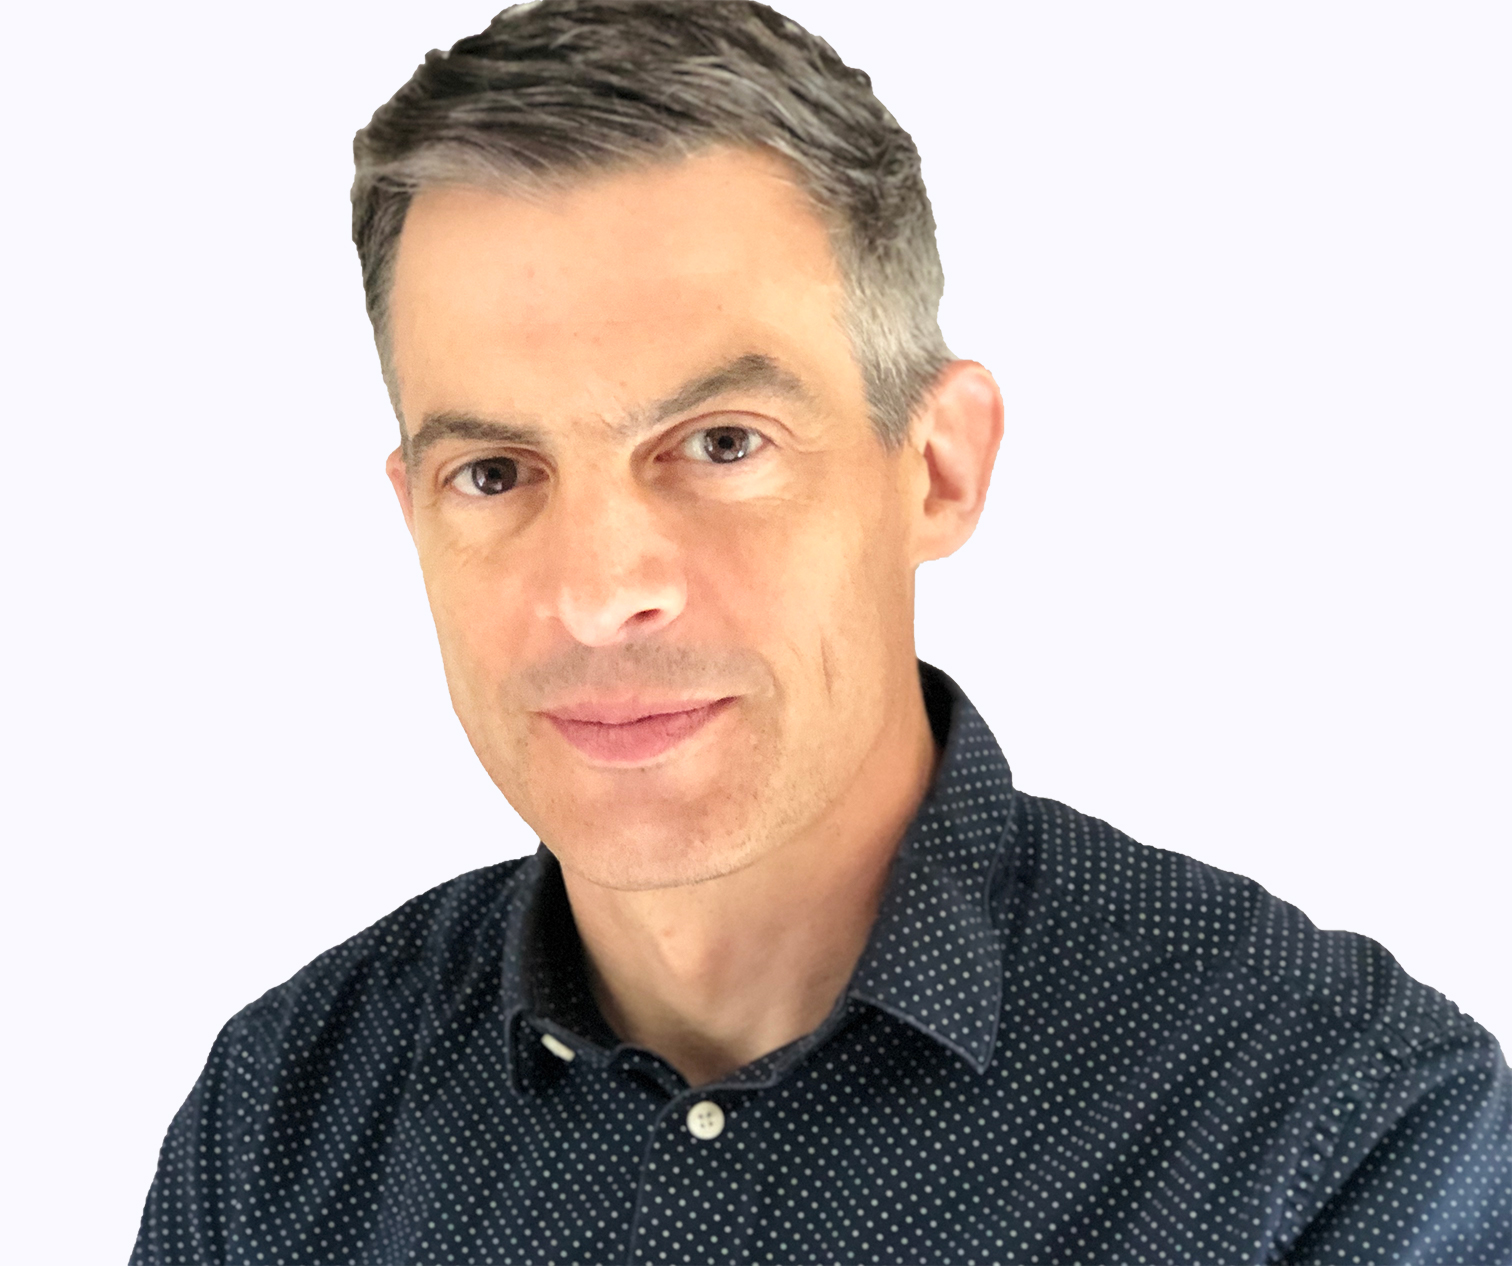
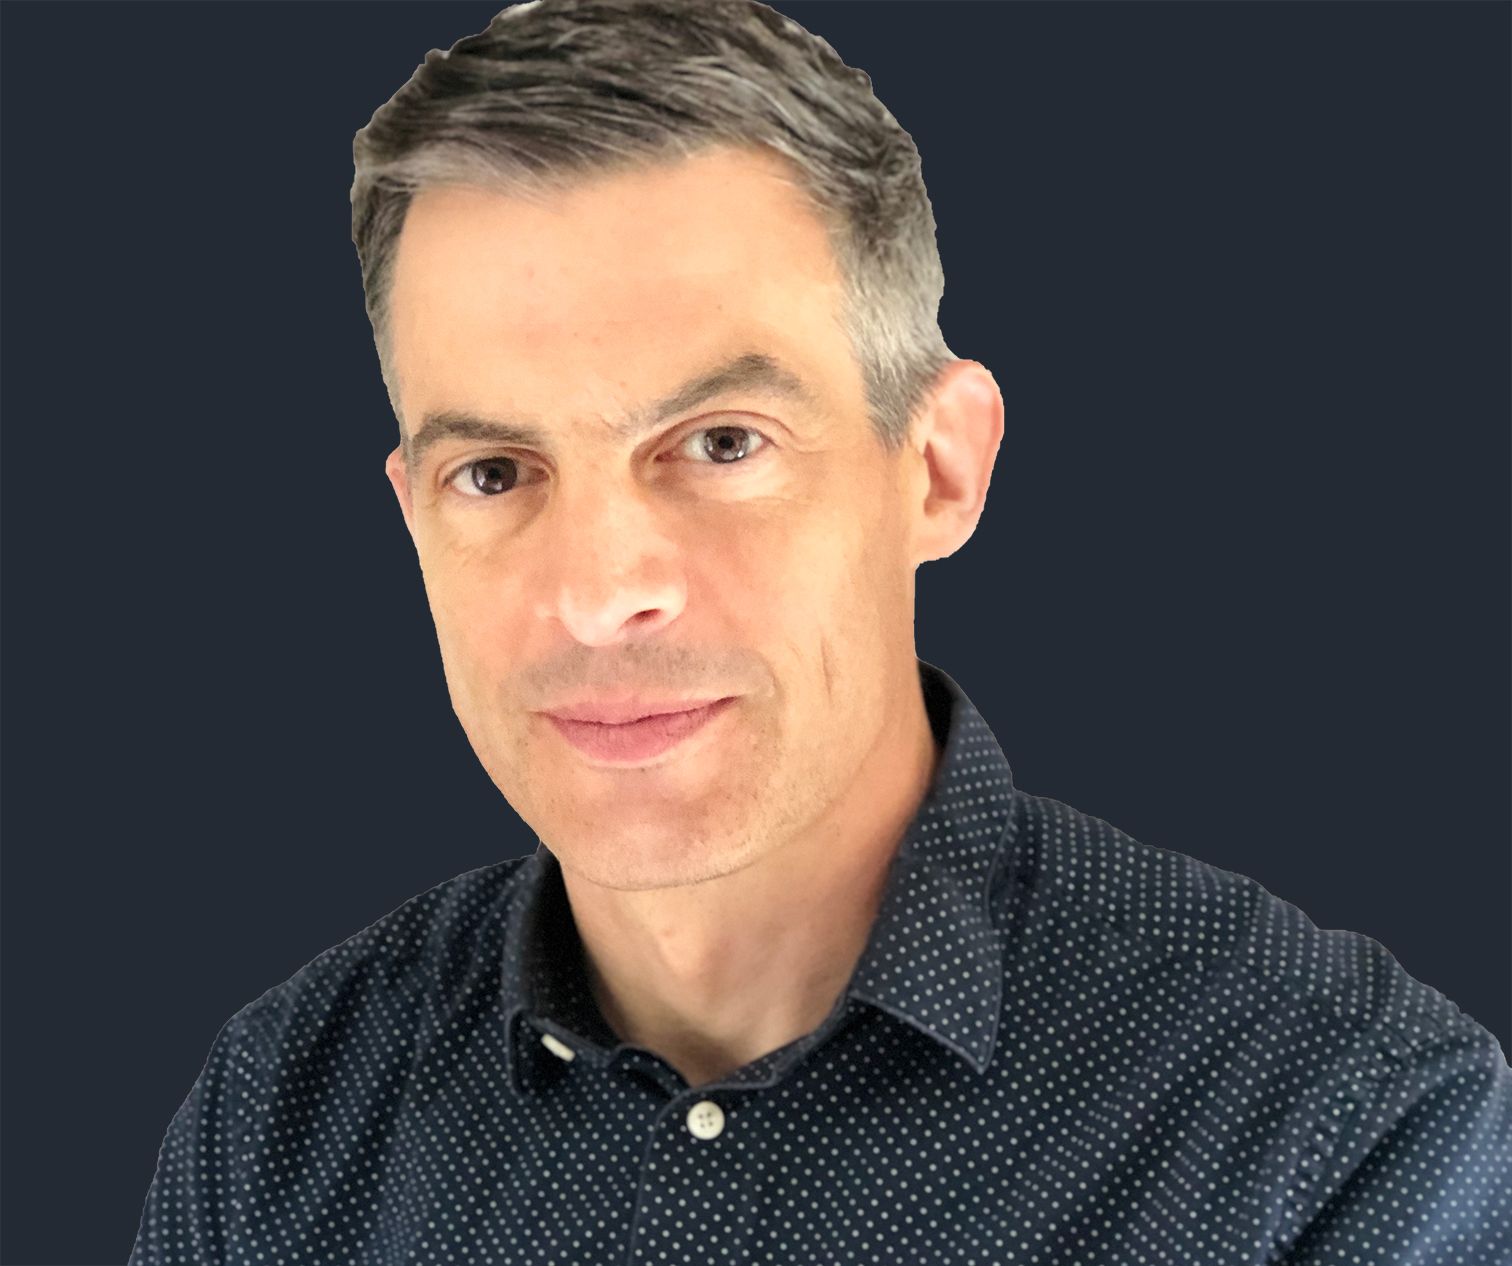
Fixing header homepage image issue

diff --git a/css/rc.css b/css/rc.css
@@ -55,10 +55,15 @@ header {
 }
 
 header.home-page {
-	overflow:hidden;
+	overflow: hidden;
+    background-image: url('../img/dylan@2x.png');
+    background-size: contain;
+    background-repeat: no-repeat;
+    background-position: 65vw center;
 }
 
-header.home-page img {
+
+/*header.home-page img {
 	margin-top: -260px !important;
 }
 
@@ -67,7 +72,7 @@ header.page.projects-page h2{
 	line-height: 0;
 
 
-}
+}*/
 
 h3 {
 	font-family: 'tex_gyre_bonumregular', "Bookman Old Style", Bookman, "Goudy Old Style", Garamond, "Hoefler Text", "Bitstream Charter", Georgia, serif;
@@ -413,17 +418,7 @@ footer p {
     margin: 0;
 }
 
-@media(max-width:1024px) {
 
-header.home-page .col-lg-3 {
-		
-	}
-	
-	header.home-page img {
-		
-	}
-
-}
 
 
 @media(max-width:768px) {
@@ -481,6 +476,17 @@ header.home-page .col-lg-3 {
 		height: 316px;
 		margin-top: 0px !important;
 	}
+	
+	
+	header.home-page {
+	overflow: hidden;
+    background-image: url('../img/dylan@2x.jpg');
+    background-size: contain;
+    background-repeat: no-repeat;
+    background-position: left bottom;
+    padding-bottom: 37rem;
+    
+    }
 	header.home-page .col-lg-3 {
 		background-color:#252A32;
 		margin: 2.5rem 0;
@@ -526,14 +532,15 @@ header.home-page .col-lg-3 {
 		padding-top:7rem;
 
 		}
-	header.home-page img {
-		margin: 0px !important;
-	}
-	
-	header.home-page .col-lg-3 {
-		background-color:#252A32;
-		margin: 0;
-	}
+	header.home-page {
+	overflow: hidden;
+    background-image: url('../img/dylan@2x.jpg');
+    background-size: contain;
+    background-repeat: no-repeat;
+    background-position: left bottom;
+    padding-bottom: 17rem;
+    
+    }
 	header.page .projects-page{
 		height:440px;
 	}

diff --git a/index.html b/index.html
@@ -62,7 +62,7 @@ Random House.">
 	 <h2>As an end-to-end product designer, I work with big brands, agencies and start-ups. Bringing their digital products to life through research, development, collaboration and design.</h2>
 	</div>
 	<div class="col-lg-3">
-	 <img src="img/dylan@2x.png" width="756" height="633" alt="Dylan Coyne">
+	 <!--<img src="img/dylan@2x.png" width="756" height="633" alt="Dylan Coyne">-->
 	</div>
    <!-- /.row -->
   </div>
